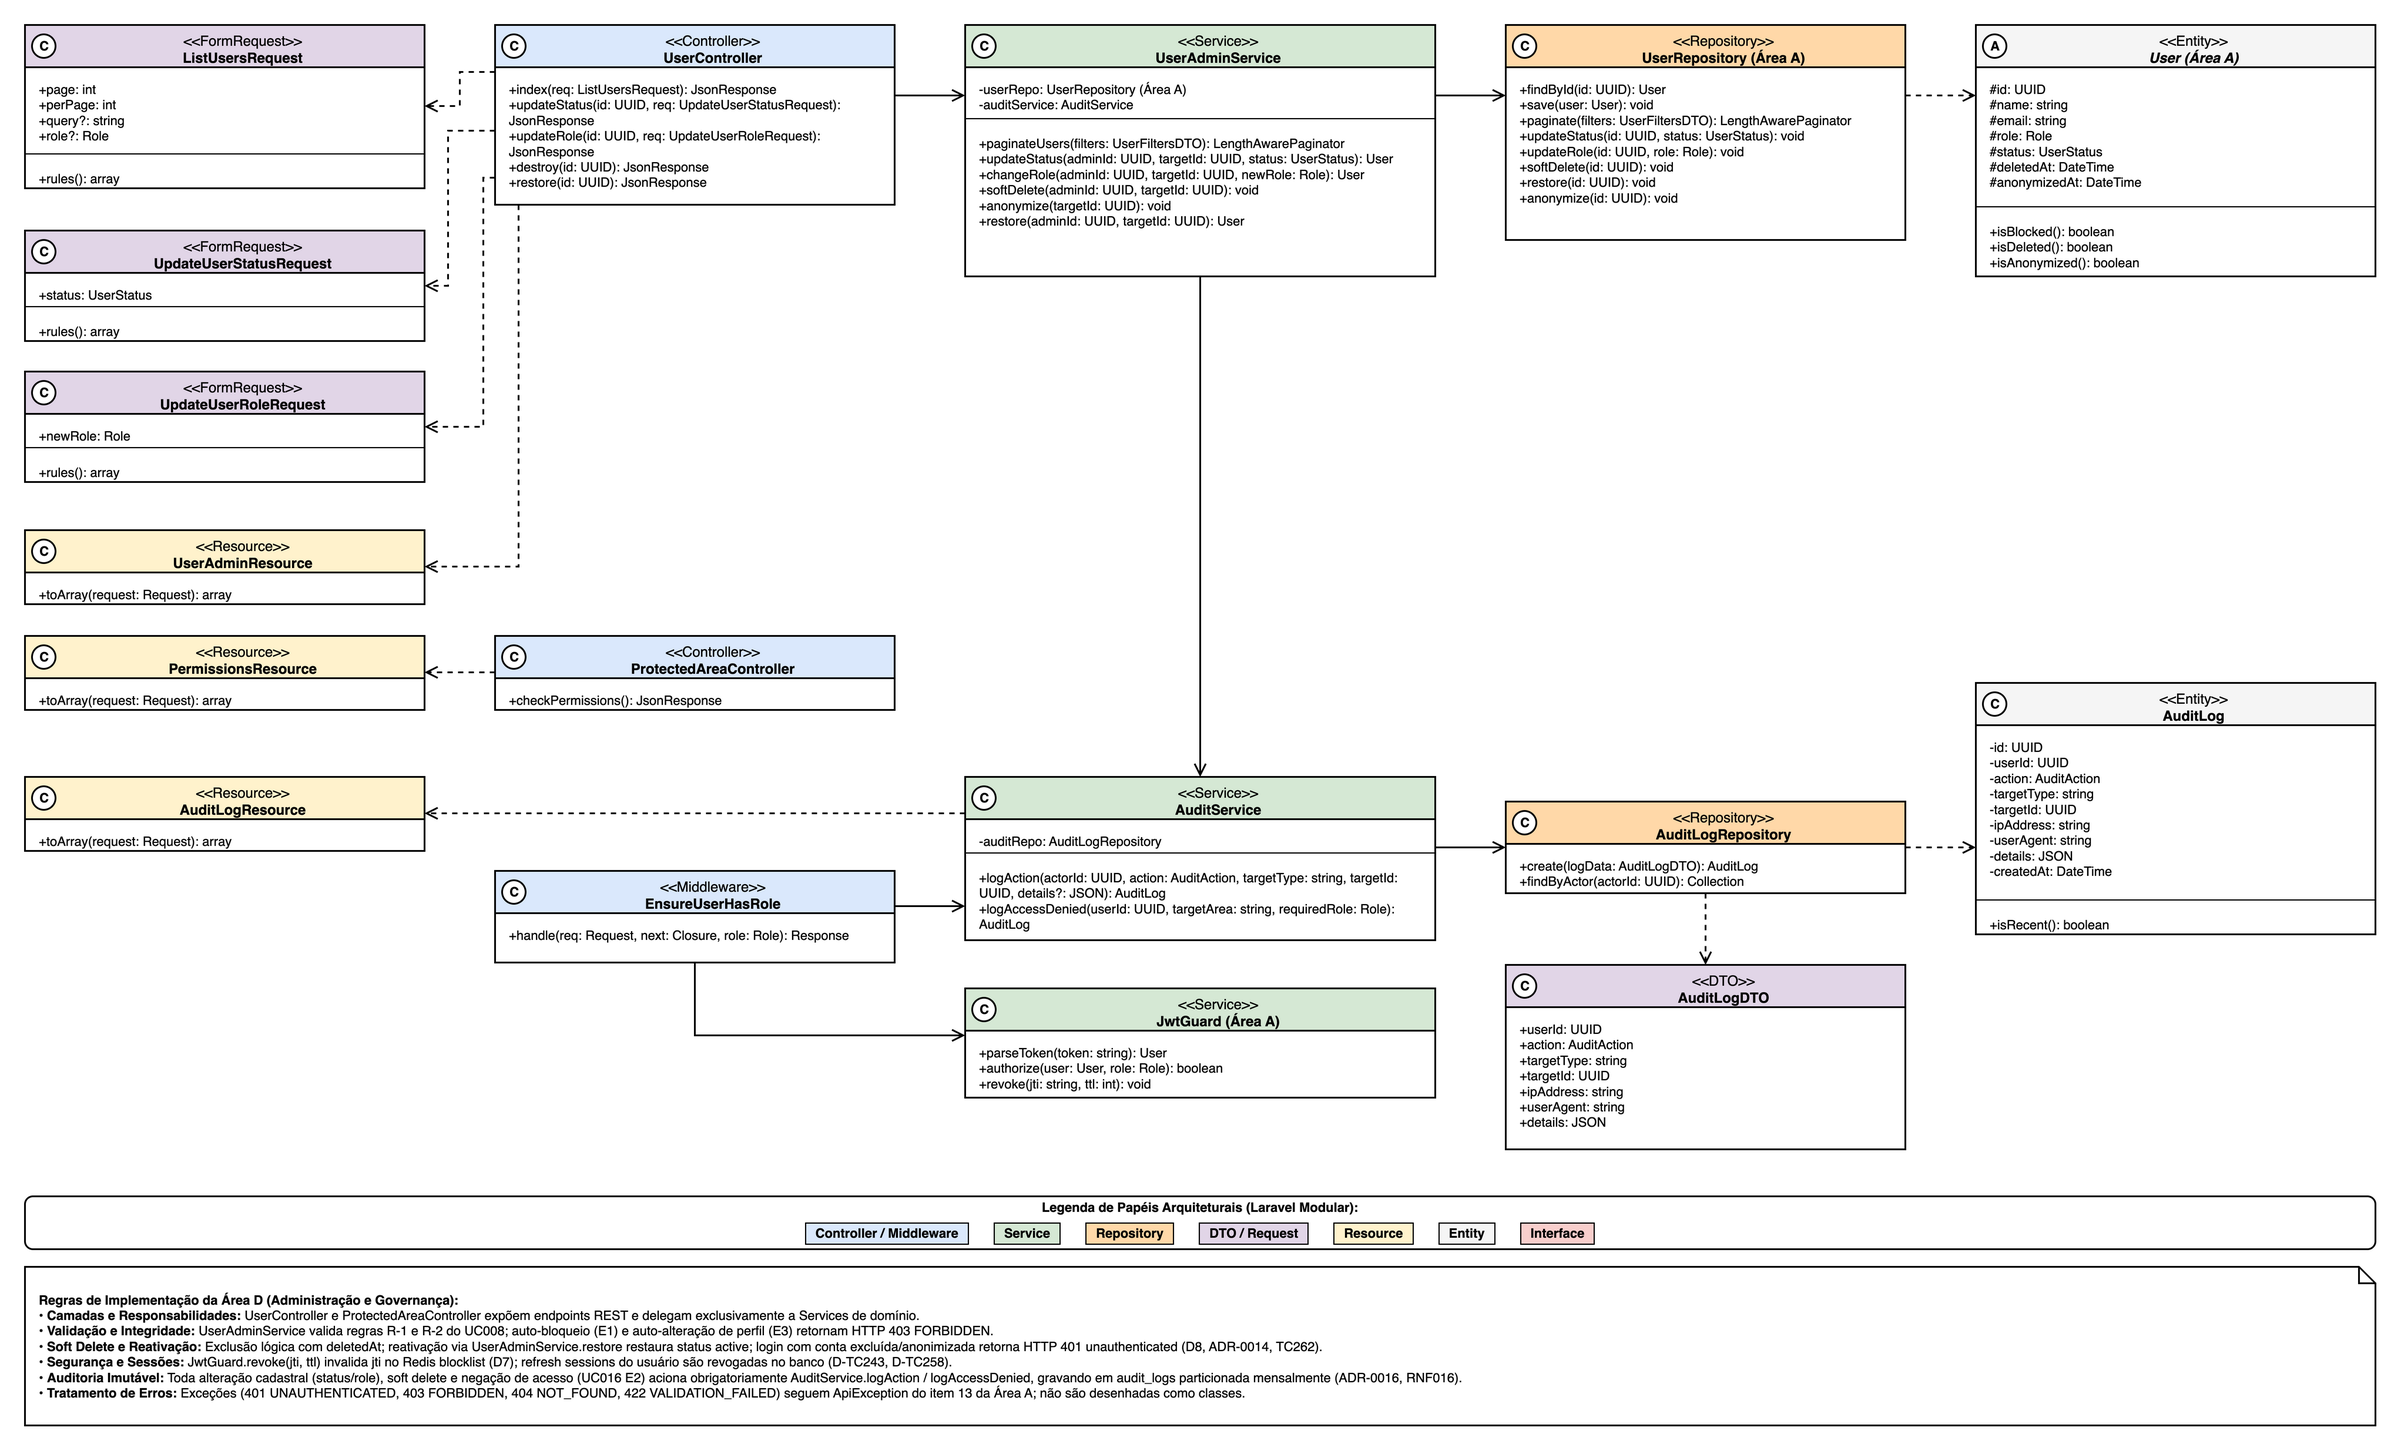
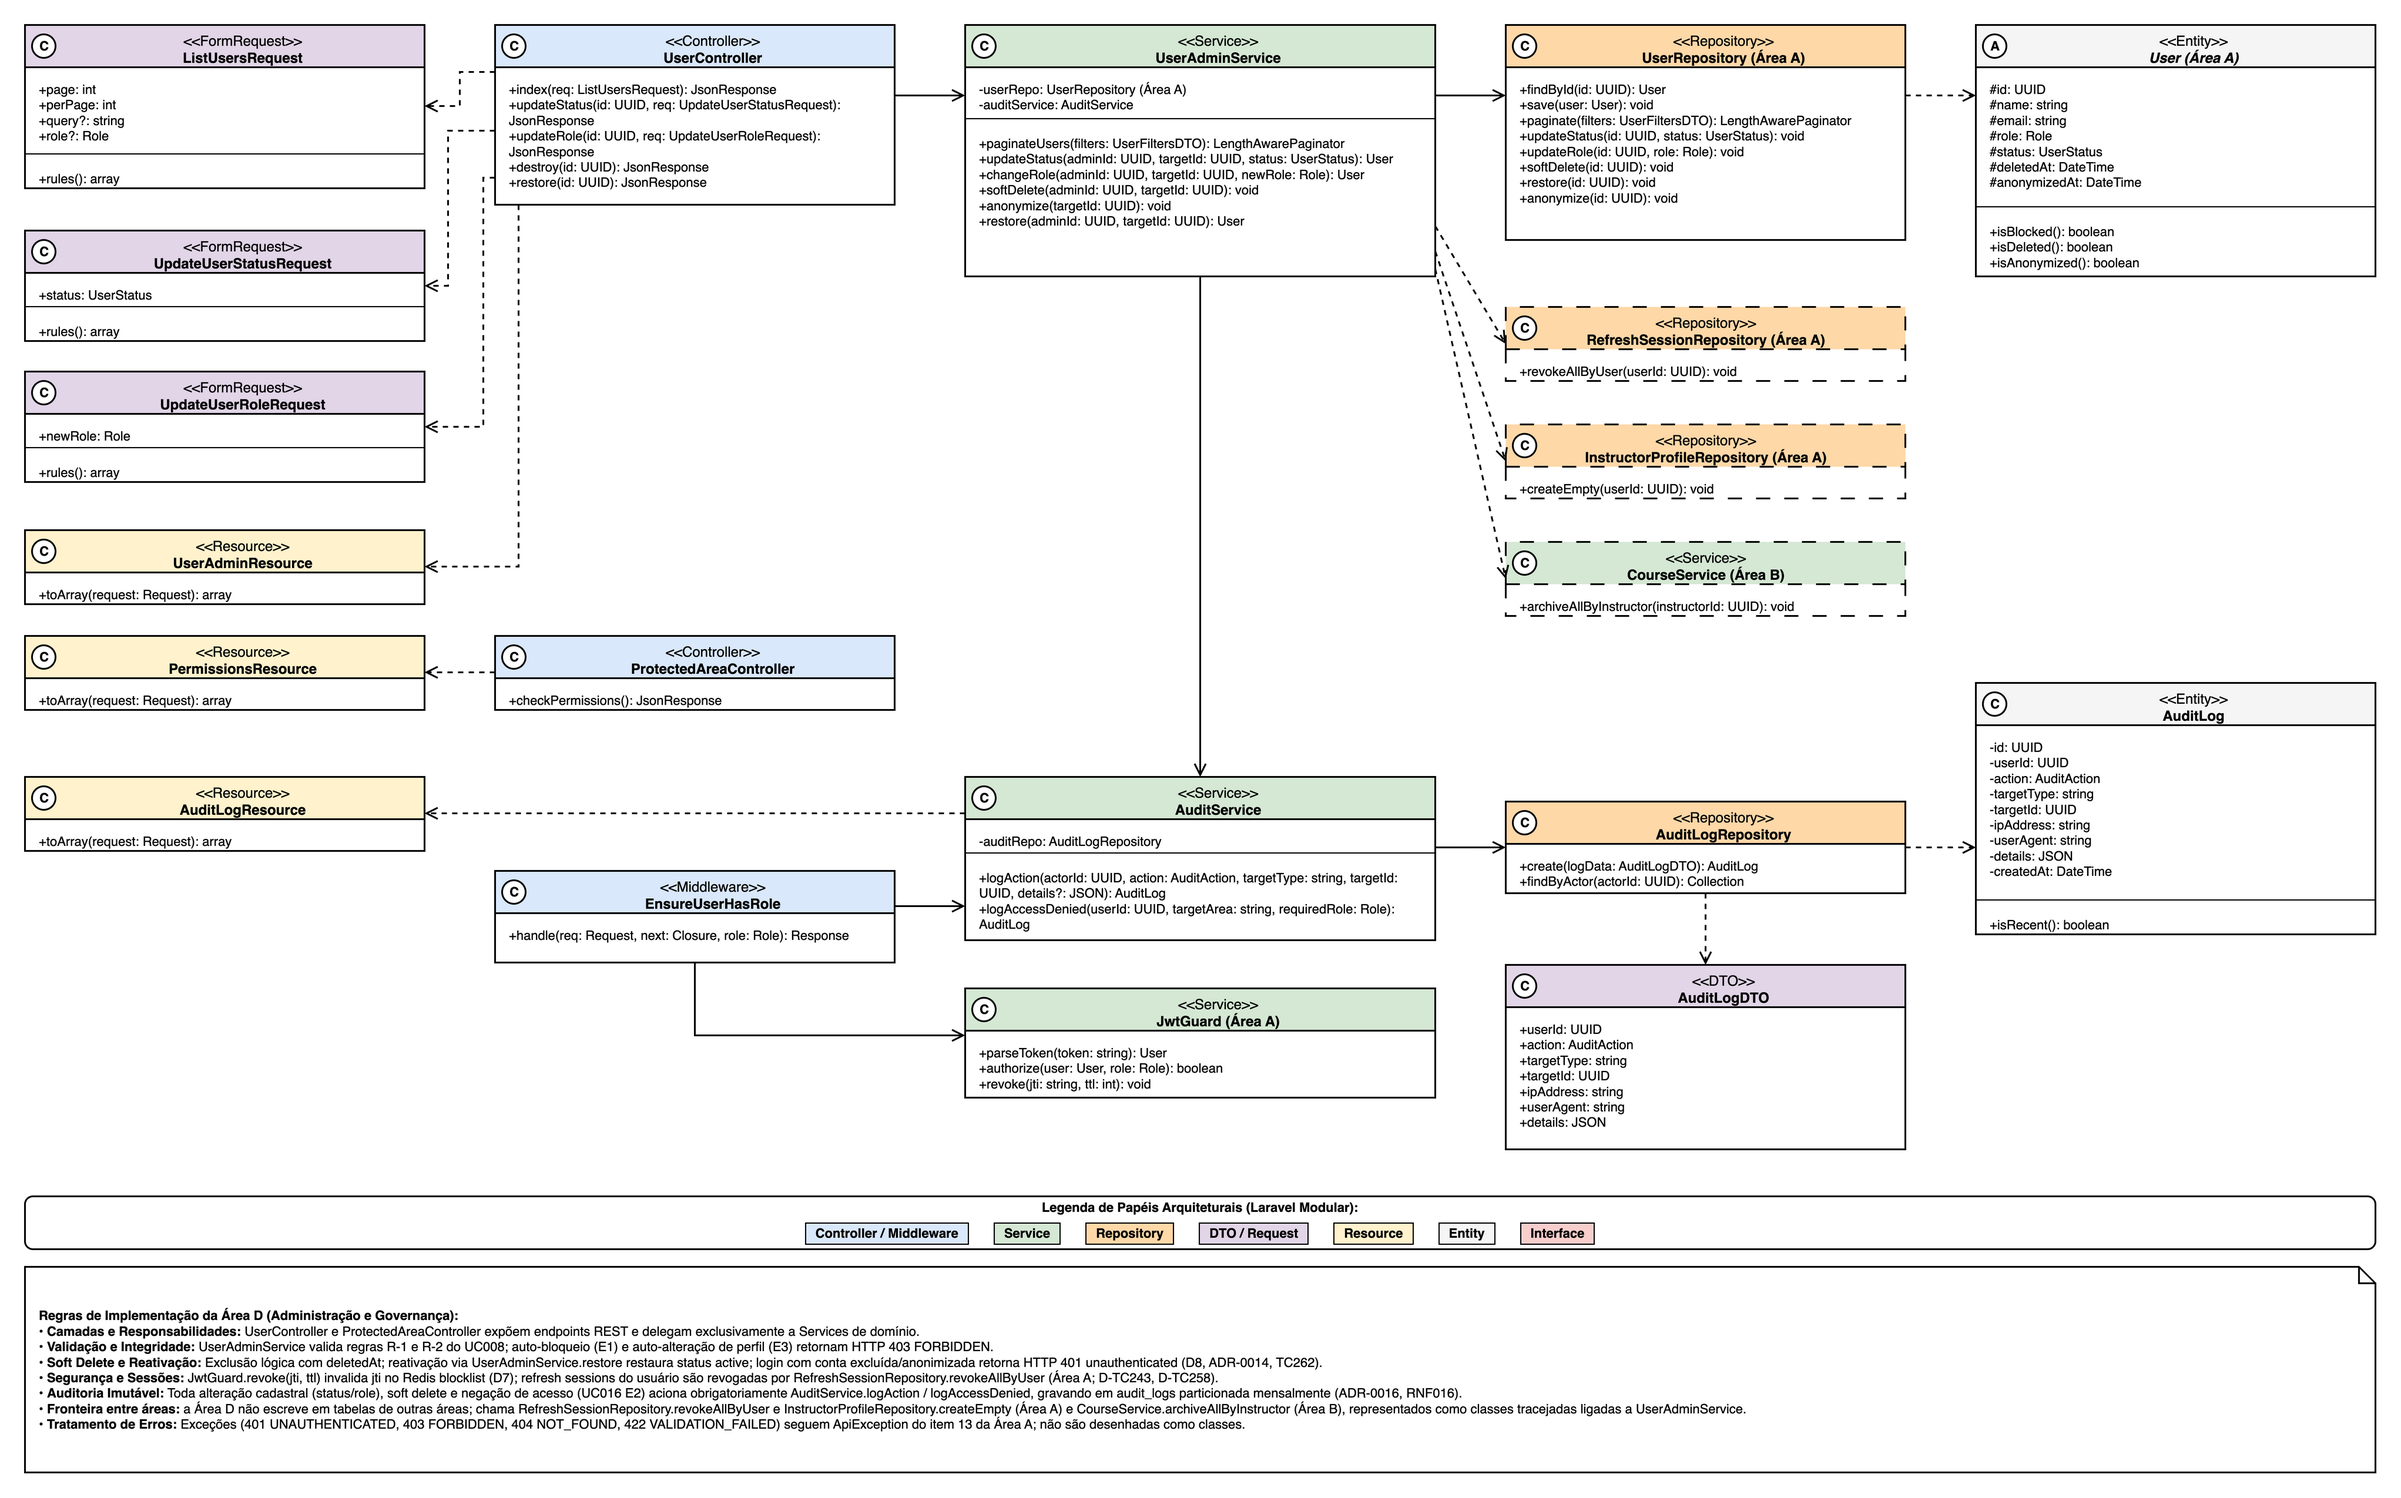
docs(diagrama-de-classes): show cross-area calls as dashed external classes
Area D was writing to tables owned by areas A and B (refresh_sessions,
instructor_profiles, courses) in the item 14 sequences, and the class
diagram did not show those dependencies at all. The diagram now declares
RefreshSessionRepository and InstructorProfileRepository (Area A) and
CourseService (Area B) as dashed external classes, each with only the
method Area D calls, linked to UserAdminService by dependency. The class
diagram text and the implementation note state that Area D delegates these
writes to the owning module instead of writing the tables itself.

(cherry picked from commit fa7c542d21e806428c8dc3369cdc77e65d708f97)

diff --git a/especificacao/13-diagrama-de-classes/area-d.md b/especificacao/13-diagrama-de-classes/area-d.md
@@ -4,7 +4,7 @@ Classes dos casos de uso UC001, UC007, UC008, UC016 e UC018, estruturadas sob as
 
 Na perspectiva de implementação, os componentes são organizados segundo o padrão arquitetural em camadas do monólito modular Laravel (ADR-0018, monólito modular: a Área D forma os módulos Admin e Analytics, que se falam com os demais por Services), divididos em dois diagramas dedicados para assegurar legibilidade em página A4:
 
-1. **Administração de usuários, áreas protegidas e auditoria (UC008, UC016 e UC018):** `UserController` e `ProtectedAreaController` recebem requisições HTTP REST validadas por Form Requests (`ListUsersRequest`, `UpdateUserStatusRequest`, `UpdateUserRoleRequest`) e delegam a orquestração negocial aos serviços de domínio. O parâmetro de paginação segue camelCase (`perPage: int`, entre 1 e 100, C10/ADR-0015). O middleware `EnsureUserHasRole` intercepta o acesso a rotas protegidas (UC016), consumindo `JwtGuard (Área A)` para validar o token JWT (`JwtGuard.parseToken(token)`), checar o perfil exigido pela rota (`JwtGuard.authorize(user, role)`) e verificar se o identificador do token consta na lista de revogação no Redis (`JwtGuard.revoke(jti, ttl)`, D7); a negação de acesso é registrada pelo `AuditService` (`logAccessDenied`), que grava `AuditLog` com ação `ACCESS_DENIED` (UC016 E2). Exceções como 401 `UNAUTHENTICATED`, 403 `FORBIDDEN`, 404 `NOT_FOUND` e 422 `VALIDATION_FAILED` não são classes: são encapsuladas por `ApiException(code: ErrorCode, httpStatus, fields)`, declaradas no item 13 da Área A. `UserAdminService` executa as validações de autorização e integridade — bloqueando tentativas de auto-bloqueio (E1) e auto-alteração de perfil (E3) com HTTP 403 `FORBIDDEN` —, orquestra a paginação (`paginateUsers(filters: UserFiltersDTO): LengthAwarePaginator`) e persiste as alterações cadastrais via `UserRepository (Área A)` sobre a entidade `User (Área A)` (incluindo operações de `paginate(filters: UserFiltersDTO): LengthAwarePaginator`, `softDelete`, `restore` e `anonymize`, ADR-0014); `UserController.destroy(id)` chama `UserAdminService.softDelete(adminId, targetId)`, que chama `UserRepository.softDelete`, e `anonymize(targetId)` é método separado, usado somente no ramo A3 do UC018 e aciona obrigatoriamente o `AuditService` para registrar toda alteração de perfil (UC008 A4), bloqueio, exclusão ou restauração (UC018) na tabela `audit_logs` (RNF016). Usuários excluídos têm tokens invalidados no Redis e sessões de refresh revogadas; tentativas de login retornam HTTP 401 `UNAUTHENTICATED` genérico (D8, TC262). As respostas saem padronizadas por `UserAdminResource`, `PermissionsResource` e `AuditLogResource`.
+1. **Administração de usuários, áreas protegidas e auditoria (UC008, UC016 e UC018):** `UserController` e `ProtectedAreaController` recebem requisições HTTP REST validadas por Form Requests (`ListUsersRequest`, `UpdateUserStatusRequest`, `UpdateUserRoleRequest`) e delegam a orquestração negocial aos serviços de domínio. O parâmetro de paginação segue camelCase (`perPage: int`, entre 1 e 100, C10/ADR-0015). O middleware `EnsureUserHasRole` intercepta o acesso a rotas protegidas (UC016), consumindo `JwtGuard (Área A)` para validar o token JWT (`JwtGuard.parseToken(token)`), checar o perfil exigido pela rota (`JwtGuard.authorize(user, role)`) e verificar se o identificador do token consta na lista de revogação no Redis (`JwtGuard.revoke(jti, ttl)`, D7); a negação de acesso é registrada pelo `AuditService` (`logAccessDenied`), que grava `AuditLog` com ação `ACCESS_DENIED` (UC016 E2). Exceções como 401 `UNAUTHENTICATED`, 403 `FORBIDDEN`, 404 `NOT_FOUND` e 422 `VALIDATION_FAILED` não são classes: são encapsuladas por `ApiException(code: ErrorCode, httpStatus, fields)`, declaradas no item 13 da Área A. `UserAdminService` executa as validações de autorização e integridade — bloqueando tentativas de auto-bloqueio (E1) e auto-alteração de perfil (E3) com HTTP 403 `FORBIDDEN` —, orquestra a paginação (`paginateUsers(filters: UserFiltersDTO): LengthAwarePaginator`) e persiste as alterações cadastrais via `UserRepository (Área A)` sobre a entidade `User (Área A)` (incluindo operações de `paginate(filters: UserFiltersDTO): LengthAwarePaginator`, `softDelete`, `restore` e `anonymize`, ADR-0014); `UserController.destroy(id)` chama `UserAdminService.softDelete(adminId, targetId)`, que chama `UserRepository.softDelete`, e `anonymize(targetId)` é método separado, usado somente no ramo A3 do UC018 e aciona obrigatoriamente o `AuditService` para registrar toda alteração de perfil (UC008 A4), bloqueio, exclusão ou restauração (UC018) na tabela `audit_logs` (RNF016). A Área D não escreve em tabelas de outras áreas: os efeitos sobre elas passam pelos módulos donos, por meio de `RefreshSessionRepository.revokeAllByUser(userId)` e `InstructorProfileRepository.createEmpty(userId)` (Área A) e `CourseService.archiveAllByInstructor(instructorId)` (Área B), três classes tracejadas no diagrama, ligadas a `UserAdminService` por dependência. Usuários excluídos têm tokens invalidados no Redis e sessões de refresh revogadas; tentativas de login retornam HTTP 401 `UNAUTHENTICATED` genérico (D8, TC262). As respostas saem padronizadas por `UserAdminResource`, `PermissionsResource` e `AuditLogResource`.
 2. **Tutor de IA e Analytics (UC001 e UC007):** `TutorChatView` (chat da aula, no front-end) envia a pergunta, e `TutorController` gerencia interações de chat, streaming e compra de créditos extras. Ele delega ao `TutorService`, que recupera o histórico paginado por cursor no `MessageRepository`, valida pré-requisitos de matrícula (UC001 E4) e indexação da aula (UC001 E1), e verifica a cota de mensagens do Aluno no Redis via `TutorRateLimiter` (UC001 E2, 20 msg/hora em janela deslizante). Caso a cota esteja esgotada, o serviço busca um pacote com mensagens disponíveis via `TutorCreditPackRepository` e consome uma mensagem (`consumeMessage()`, `messages_used`); se não houver mensagem disponível (`hasAvailableMessages()` falso), responde HTTP 429 `TOO_MANY_REQUESTS` acompanhado do cabeçalho `Retry-After` (D-cota). O aluno pode adquirir pacotes de crédito extras por preço fixo de R$ 19,90 (RF020, RNF022) via rota tratada por `BuyCreditPackRequest` e formatada por `CreditPackResource`. O streaming em tempo real da resposta RAG (Server-Sent Events em menos de 3s, RNF003) é intermediado pelo `CourseTutorClient`, que consome o microsserviço `ai-service` (PostgreSQL 16 + pgvector) enviando a pergunta acompanhada opcionalmente de `videoTimestampSeconds` (D6) e respeitando o `User.locale` do usuário (RNF013). Para métricas e relatórios, `DashboardController` recebe parâmetros em inglês validados por `DashboardFilterRequest` (`startDate`, `endDate`, `courseId` opcional e `groupBy` com valores `day`, `week` ou `month`, D3) e aciona `DashboardAnalyticsService`, que aplica a regra de isolamento do Instrutor (UC007 R-2, impedindo visualização de cursos de terceiros via HTTP 403 `FORBIDDEN`) e executa consultas analíticas agregadas via `AnalyticsQueryRepository` (`aggregateProgressAndEnrollments(courseIds, start, end, groupBy)`) sobre as tabelas transacionais `Enrollment` e `LessonProgress`, devolvendo um `DashboardMetricsDTO` que `DashboardResource` formata para a resposta.
 
 ![Classes negociais da Área D](../diagramas/13-classes-area-d-negocial.png)
